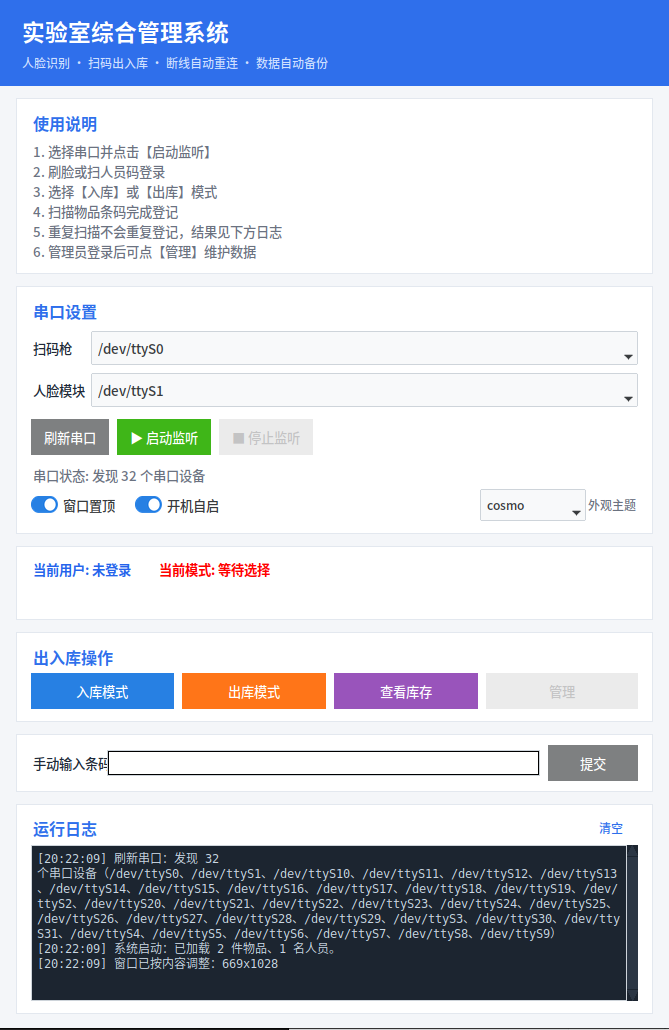
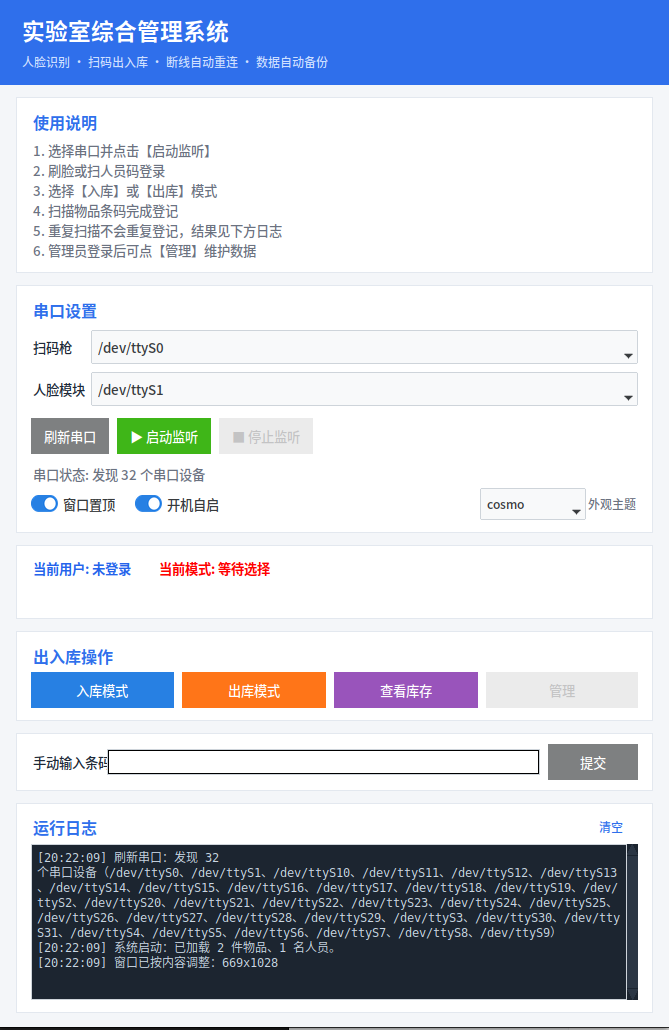
优化 README：重写主页文档并更新界面截图
- 新增徽章、功能特性分组、安装/使用流程、数据结构说明、常见问题 FAQ
- 管理员面板与数据安全说明
- 更新 docs/screenshot.png 为最新界面截图

diff --git a/README.md b/README.md
@@ -1,66 +1,127 @@
 # 实验室综合管理系统
 
-人脸识别 + 扫码枪的实验室出入库与签到管理系统（Ubuntu + Tkinter + ttkbootstrap）。
+> 人脸识别 + 扫码枪的实验室出入库与签到管理系统，专为 Ubuntu 桌面设计。
 
-## 功能
+[![Python](https://img.shields.io/badge/Python-3.8%2B-3776AB?logo=python&logoColor=white)](https://www.python.org/)
+[![Platform](https://img.shields.io/badge/Platform-Ubuntu%2FLinux-E95420?logo=ubuntu&logoColor=white)](https://ubuntu.com/)
+[![License](https://img.shields.io/badge/License-MIT-2ea44f)](LICENSE)
 
-- 🔌 **双串口监听**：扫码枪 + 人脸识别模块，单端口断线不影响另一个，拔插 USB 后自动重连
-- 👤 **双通道登录**：刷脸签到（自动写入签到表）/ 扫人员码登录
-- 📦 **出入库登记**：一键切换入库/出库模式，扫物品码即记录状态、柜号、操作人、时间
-- 🛡 **数据安全**：写库前自动备份（.bak）、临时文件原子替换防损坏、损坏/丢失自动恢复
-- 🔐 **多操作员权限**：管理员（密码保护的管理面板：增删人员、分配角色、增删物品）+ 普通成员仅可扫码
-- 📊 **库存表格视图**：在库/出库颜色区分、统计栏；深色终端风格运行日志
-- 🎨 **9 款外观主题**：浅色/深色一键切换，选择自动记住
-- 🚀 **开机自启**（最小化启动）+ 安装脚本自动创建桌面快捷方式
-- 🧪 **无硬件可测试**：手动输入条码即可走完整流程
+![界面截图](docs/screenshot.png)
 
-## 安装（Ubuntu）
+## ✨ 功能特性
+
+### 📦 出入库与签到
+- **双串口监听**：同时接入扫码枪与人脸识别模块，扫码/刷脸互不干扰
+- **双通道登录**：刷脸自动签到并写入签到表；扫人员码快速登录
+- **一键出入库**：切换入库/出库模式后扫物品码，自动记录状态、柜号、操作人、时间
+- **重复扫描去重**：同一物品重复登记会被识别并提示，不会覆盖记录
+- **签到去重**：同一人短时间内重复刷脸不重复签到（窗口时长可调）
+
+### 🛡 稳定与数据安全
+- **断线自动重连**：USB 拔插后 2 秒内自动恢复，无需重启监听
+- **写前自动备份**：每次写库前备份为 `warehouse_db.bak`，误操作可恢复
+- **原子写入**：先写临时文件再替换，断电/崩溃不会损坏 Excel
+- **损坏自动恢复**：启动时发现数据库损坏或丢失，自动从备份恢复
+
+### 🔐 权限与数据管理
+- **多操作员权限**：管理员 / 成员两级角色
+- **管理员面板**（密码保护）：增删人员、分配角色、增删物品，操作均有日志
+- **普通成员**：只能扫码签到与出入库，无法改动数据
+
+### 🎨 使用体验
+- **现代化界面**：卡片式布局 + 彩色语义按钮，9 款主题一键切换（含多款深色主题）
+- **库存表格视图**：在库/出库颜色区分 + 统计栏
+- **深色终端风日志**：所有操作、串口事件、异常落盘到 `运行日志.log`（超 1MB 自动轮转）
+- **开机自启**：登录后最小化启动，桌面快捷方式由安装脚本自动创建
+- **无硬件可测试**：手动输入条码即可走完整流程
+
+## 📦 安装
+
+### 1. 获取代码
+
+```bash
+git clone https://github.com/MCYX12/lab-management-system.git
+cd lab-management-system
+```
+
+### 2. 初始化数据文件
+
+仓库出于隐私考虑不包含真实数据。复制示例模板后，用 Excel/WPS 改成自己的数据：
+
+```bash
+cp warehouse_db.example.xlsx warehouse_db.xlsx
+```
+
+- **物品表**：条码 / 物品名称 / 柜号 / 状态 / 最后操作时间 / 最近操作人
+- **人员表**：条码 / 姓名 / 角色（管理员 / 成员）
+
+> ⚠ 条码列请保持**文本格式**（右键单元格 → 设置单元格格式 → 文本），避免长条码被 Excel 转成科学计数法。签到表会在首次运行时自动创建。
+
+### 3. 一键安装
 
 ```bash
 chmod +x install_ubuntu.sh run.sh
 ./install_ubuntu.sh
 ```
 
-脚本会自动：创建虚拟环境、安装依赖、创建桌面快捷方式、开启开机自启、检查串口权限（dialout 组）。
+脚本会自动完成：创建虚拟环境 → 安装依赖 → 创建桌面快捷方式 → 开启开机自启 → 检查串口权限（dialout 组）。
 
-## 首次使用：初始化数据文件
-
-仓库出于隐私考虑**不包含真实数据文件**。首次使用请复制示例模板：
-
-```bash
-cp warehouse_db.example.xlsx warehouse_db.xlsx
-```
-
-然后用 Excel/WPS 编辑 `warehouse_db.xlsx`：
-
-- **物品表**：条码 / 物品名称 / 柜号 / 状态 / 最后操作时间 / 最近操作人
-- **人员表**：条码 / 姓名 / 角色（管理员 / 成员；条码列请保持文本格式）
-
-签到表会在首次运行时自动创建。
-
-## 运行
+### 4. 运行
 
 ```bash
 ./run.sh
 ```
 
-窗口里选择串口 → 启动监听 → 刷脸或扫人员码登录 → 选入库/出库 → 扫物品码。
+## 🖥 使用流程
 
-## 界面预览
+1. 窗口「串口设置」中选择扫码枪/人脸模块端口，点 **▶ 启动监听**
+2. **刷脸**或**扫人员码**登录（当前用户显示在状态栏）
+3. 点「入库模式」或「出库模式」
+4. 扫描物品条码 → 状态栏提示成功，库存表实时更新
+5. 没有硬件时，在「手动输入条码」框输入条码回车即可测试（示例条码见 `warehouse_db.example.xlsx`）
 
-![界面截图](docs/screenshot.png)
+## 🔐 管理员面板
 
-## 目录结构
+1. 以**管理员角色**的人员登录后，「管理」按钮自动解锁
+2. 输入管理员密码（默认 `admin888`，请修改 `main.py` 顶部的 `ADMIN_PASSWORD`）
+3. 面板内可：添加/删除人员、切换角色（管理员↔成员）、添加/删除物品
+4. 每次写库前自动备份，所有管理操作记录在日志中
+
+> 💡 旧版人员表没有「角色」列时，现有人员默认按管理员处理（首次在面板添加/修改人员时自动创建角色列并保留管理员身份），请管理员及时为其他成员设置角色。
+
+## 🗂 项目结构
 
 | 文件 | 说明 |
 | --- | --- |
 | `main.py` | 主程序：界面、串口监听、业务逻辑 |
-| `db.py` | 数据层：Excel 读写、缓存、备份与自动恢复 |
-| `install_ubuntu.sh` | 一键安装脚本 |
-| `run.sh` | 启动脚本 |
-| `warehouse_db.example.xlsx` | 数据库模板（示例数据） |
-| `README_UBUNTU.md` | Ubuntu 详细使用说明 |
+| `db.py` | 数据层：Excel 读写、内存缓存、备份与自动恢复 |
+| `install_ubuntu.sh` | 一键安装脚本（依赖、快捷方式、开机自启） |
+| `run.sh` | 启动脚本（自动使用项目虚拟环境） |
+| `warehouse_db.example.xlsx` | 数据库模板（示例数据，复制为 `warehouse_db.xlsx` 使用） |
+| `requirements.txt` | Python 依赖清单 |
+| `docs/screenshot.png` | 界面截图 |
+| `README_UBUNTU.md` | Ubuntu 详细使用说明（串口、权限、换设备迁移） |
 
-## 许可证
+## ❓ 常见问题
 
-[MIT](LICENSE)
+**串口打不开 / 提示权限不足？**
+执行 `sudo usermod -aG dialout $USER` 后注销重新登录。
+
+**提示"无法写入 warehouse_db.xlsx"？**
+文件正被 Excel/WPS 打开，关闭后重试即可。
+
+**找不到串口设备？**
+点「刷新串口」；若 USB 设备没出现，检查数据线是否为数据线（非纯充电线）。
+
+**数据库损坏了怎么办？**
+程序启动时会自动从 `warehouse_db.bak` 恢复；主备都损坏时请用 `warehouse_db.example.xlsx` 重建。
+
+**如何关闭开机自启？**
+窗口内取消勾选「开机自启」即可。
+
+**主题切换后下次启动会记住吗？**
+会，选择保存在 `config.json`。
+
+## 📄 许可
+
+[MIT License](LICENSE)
